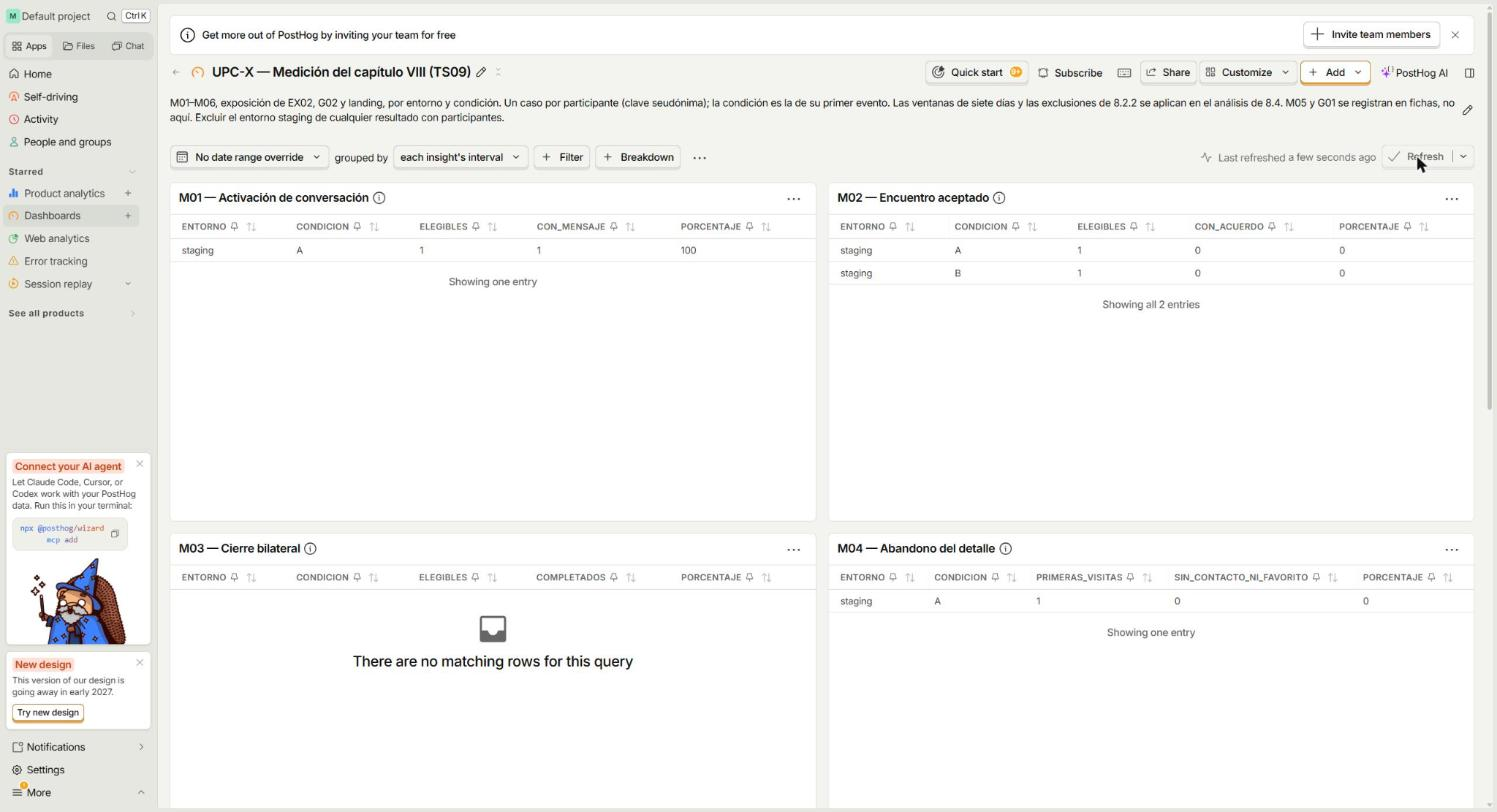
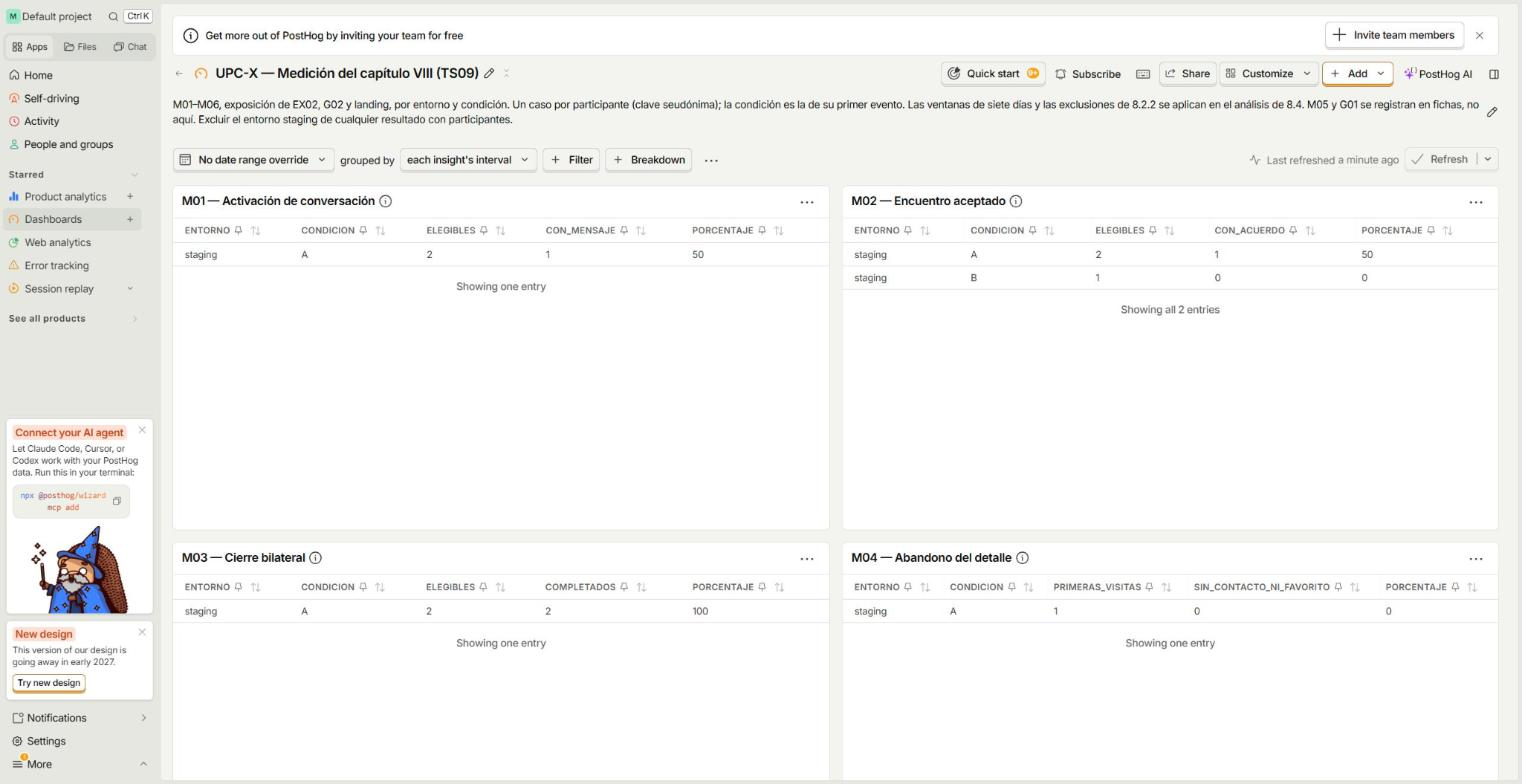
docs: PostHog sin IP y prueba del trato completo en staging
8.2.8 deja como aplicado «Discard client IP data» desde el 25/11/2026. 8.3.3.3 suma la prueba del trato (publicar, trato con solo el precio, constancia y cierre) y deja los dos hallazgos agrupados para una próxima ronda. Dashboard de TS09 con M01–M04. Registro de versiones 1.52.

diff --git a/README.md b/README.md
@@ -109,6 +109,7 @@
 | 1.49 | 23/11/2026 | Manuel Alejandro Molina Vásquez | Capítulo VIII: estructura de la sección 8.3.3 y de las secciones 8.4 a 8.6, y sección 8.3.4 To-Be Validation Interviews con el diseño y el registro de las entrevistas. |
 | 1.50 | 24/11/2026 | Luis Manuel Espinoza Navarrete | Capítulo VIII: títulos de 8.3.3.2 a 8.3.3.5, 8.4 y 8.5.1 alineados con el enunciado y nivel de 8.3.4.2; índice completo del capítulo; secciones Video App Validation y Video About-the-Team dentro de Conclusiones; numeración de 3.2.1 a 3.2.3. |
 | 1.51 | 25/11/2026 | Luis Manuel Espinoza Navarrete | Capítulo VIII: medición con PostHog implementada y desplegada en staging; 8.2.2, 8.2.4, 8.2.8, 8.3 y 8.3.2 actualizados; 8.3.3.1–8.3.3.5 con evidencia; 8.3.4 reescrito como validación To-Be sin repetir 6.3; 8.6.2 con la matriz GEES que pide el enunciado. |
+| 1.52 | 25/11/2026 | Luis Manuel Espinoza Navarrete | Capítulo VIII: PostHog descarta la IP de los eventos (8.2.8); prueba del trato completo en staging y dashboard de TS09 con M01–M04 (8.3.3.3 y 8.3.3.5). |
 
 
 <div class="page"></div>
@@ -7259,7 +7260,7 @@ Cada cambio siguió el flujo feature → `develop` por PR con CI en verde, y lue
 
 #### 8.3.3.2. Implemented To-Be Landing Page Evidence
 
-La landing mide visitas y clics en sus llamados a la acción para el objetivo de adquisición de 8.2.7 ([PR #5](https://github.com/UPC-X/Landing-Page/pull/5), publicado el 25/11/2026). `js/analytics.js` envía a PostHog un `$pageview` por carga y un `cta_clicked` con `cta` igual a `signup`, `login` o `demo`, leído de los atributos `data-cta` que ya tenían los botones. No usa cookies ni `localStorage` y no crea perfiles de persona: cada carga es un visitante anónimo nuevo. Solo envía el origen de la referencia, no la URL completa. PostHog sí registra la IP desde la que llega cada evento: en la landing es la del visitante. Queda pendiente activar en el proyecto «Discard client IP data» para cumplir el «sin IP» de 8.2.8. Si el navegador declara Do Not Track o Global Privacy Control, no envía nada, y sin `posthogKey` en `config.json` tampoco. Como la landing no tiene sesión, aquí no hay consentimiento por cuenta: lo reemplaza esta medición sin identificador persistente.
+La landing mide visitas y clics en sus llamados a la acción para el objetivo de adquisición de 8.2.7 ([PR #5](https://github.com/UPC-X/Landing-Page/pull/5), publicado el 25/11/2026). `js/analytics.js` envía a PostHog un `$pageview` por carga y un `cta_clicked` con `cta` igual a `signup`, `login` o `demo`, leído de los atributos `data-cta` que ya tenían los botones. No usa cookies ni `localStorage` y no crea perfiles de persona: cada carga es un visitante anónimo nuevo. Solo envía el origen de la referencia, no la URL completa. Desde el 25/11/2026 el proyecto de PostHog tiene activado «Discard client IP data», así que no guarda la IP de ningún evento, ni de la landing ni de la API; los eventos que llegaron antes de ese día sí la conservan. Una visita posterior al cambio llegó sin `$ip`. Si el navegador declara Do Not Track o Global Privacy Control, no envía nada, y sin `posthogKey` en `config.json` tampoco. Como la landing no tiene sesión, aquí no hay consentimiento por cuenta: lo reemplaza esta medición sin identificador persistente.
 
 En la página publicada se comprobó que el envío a `us.i.posthog.com/i/v0/e/` responde 200, que no se guardan cookies ni datos locales y que las visitas aparecen en el insight «Landing — visitas y llamados a la acción» del dashboard de 8.3.3.5.
 
@@ -7273,7 +7274,7 @@ La aplicación web incorpora la medición en [PR #44](https://github.com/UPC-X/u
 
 Pruebas: `analyticsService.spec.ts` verifica que sin consentimiento no se envía nada, que se usa la condición asignada y que un lote fallido se reintenta con los mismos identificadores. La CI de web (unitarias, E2E simuladas, formato y build) pasó en cada PR. La ruta de acceso pesa 60,4 KiB comprimidos, dentro del presupuesto de 90 KiB.
 
-**Prueba en staging (25/11/2026, web `feea320`, API `c0adc90`).** Se usaron dos cuentas sintéticas `qa-medicion-*@upc.edu.pe`, verificadas con el código que staging deja en su log, y un aviso sintético. El comprador participó desde su perfil (condición A) y buscó «Calculadora». Abrió el aviso, lo guardó, contactó y escribió; la vendedora respondió desde el cliente móvil. Después se retiró: el estado pasó a «no participas» y un lote enviado en ese estado fue descartado (`accepted: 0`). Volvió a participar con una clave nueva; a la tercera le tocó la condición B. A PostHog llegaron `search_completed`, `listing_detail_viewed`, `listing_detail_ended` (con `outcome: contact`), `listing_saved`, `experiment_exposed` y dos `conversation_message_created`, cada uno con `client`, `environment: staging` y `$feature/ex02_contacto`. Ninguno llevó texto, correo ni nombre. **Hallazgos abiertos:** (1) si la pestaña se cierra o se recarga en el detalle, no se envía `listing_detail_ended` y la visita queda incompleta, que es como 8.2.2 la trata; para no perder esos casos falta enviar el cierre al ocultar la página. (2) La nota de la condición B se muestra sin el margen ni el tamaño previstos.
+**Prueba en staging (25/11/2026, web `feea320`, API `c0adc90`).** Se usaron dos cuentas sintéticas `qa-medicion-*@upc.edu.pe`, verificadas con el código que staging deja en su log, y un aviso sintético. El comprador participó desde su perfil (condición A) y buscó «Calculadora». Abrió el aviso, lo guardó, contactó y escribió; la vendedora respondió desde el cliente móvil. Después se retiró: el estado pasó a «no participas» y un lote enviado en ese estado fue descartado (`accepted: 0`). Volvió a participar con una clave nueva; a la tercera le tocó la condición B. A PostHog llegaron `search_completed`, `listing_detail_viewed`, `listing_detail_ended` (con `outcome: contact`), `listing_saved`, `experiment_exposed` y dos `conversation_message_created`, cada uno con `client`, `environment: staging` y `$feature/ex02_contacto`. Ninguno llevó texto, correo ni nombre. Una segunda prueba, con las cuentas `qa-trato-*` y ambas participando, recorrió el trato completo por la API como cliente móvil. La vendedora publicó un aviso y el comprador escribió y propuso un trato con solo el precio. La vendedora lo aceptó, el comprador adjuntó una constancia sintética y los dos confirmaron la entrega, con lo que el aviso quedó vendido. Llegaron `listing_published`, `conversation_message_created`, `payment_evidence_created`, y `deal_accepted` y `deal_completed` una vez por cada parte; todos ya sin `$ip`. **Hallazgos abiertos, agrupados para una próxima ronda de cambios:** (1) si la pestaña se cierra o se recarga en el detalle, no se envía `listing_detail_ended` y la visita queda incompleta, que es como 8.2.2 la trata; para no perder esos casos falta enviar el cierre al ocultar la página. (2) La nota de la condición B se muestra sin el margen ni el tamaño previstos.
 
 <p align="center">
   <b>Perfil web: participación en la medición (US51/US52)</b>
@@ -7327,7 +7328,7 @@ Pruebas: `AnalyticsIntegrationTests` (sin consentimiento no sale nada; condició
 </p>
 
 <p align="center">
-  <img src="img/img-evidence/tobe-posthog-dashboard.jpg" alt="Dashboard UPC-X Medición del capítulo VIII en PostHog con M01, M02 y M04 por entorno y condición" width="100%">
+  <img src="img/img-evidence/tobe-posthog-dashboard.jpg" alt="Dashboard UPC-X Medición del capítulo VIII en PostHog con M01 a M04 por entorno y condición" width="100%">
 </p>
 #### 8.3.3.6. Team Collaboration Insights
 
